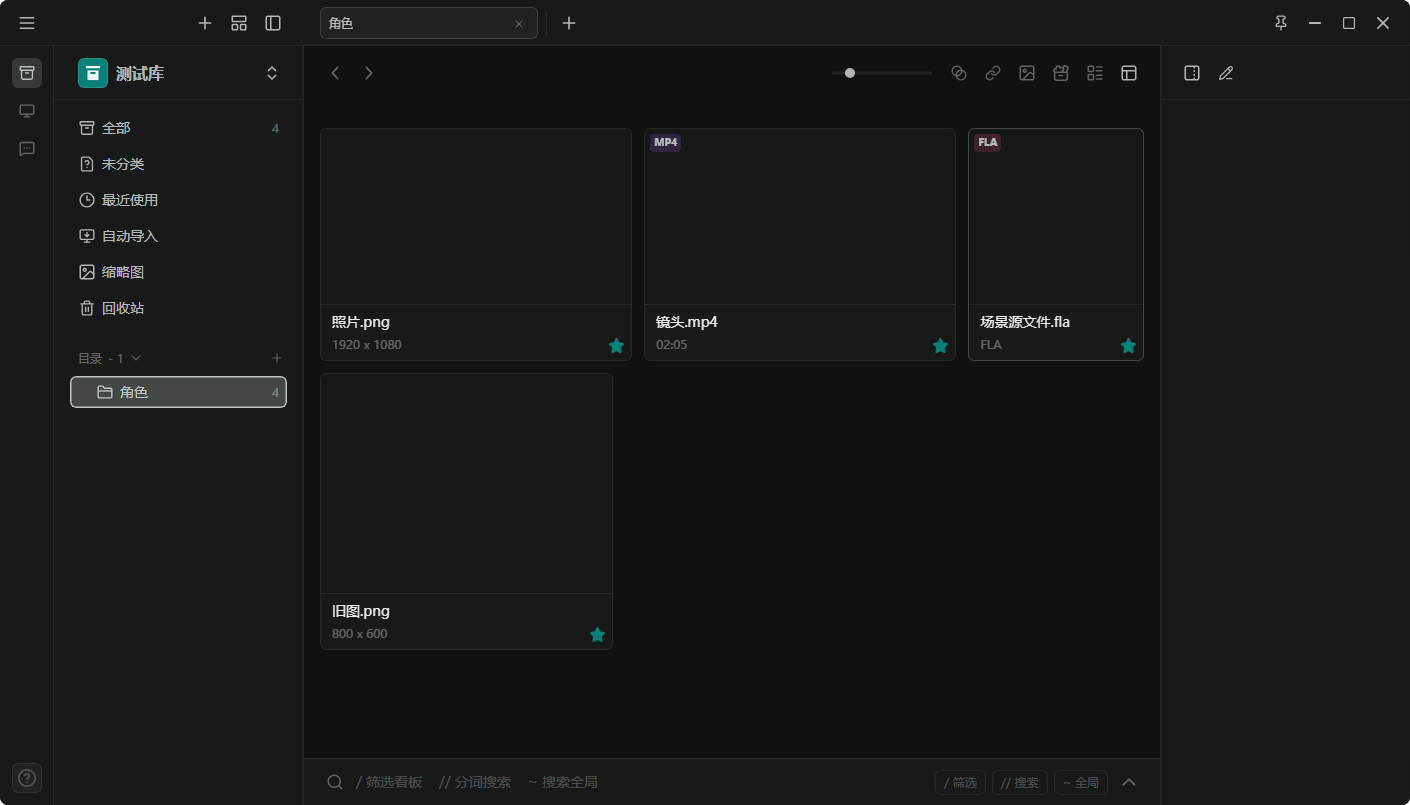
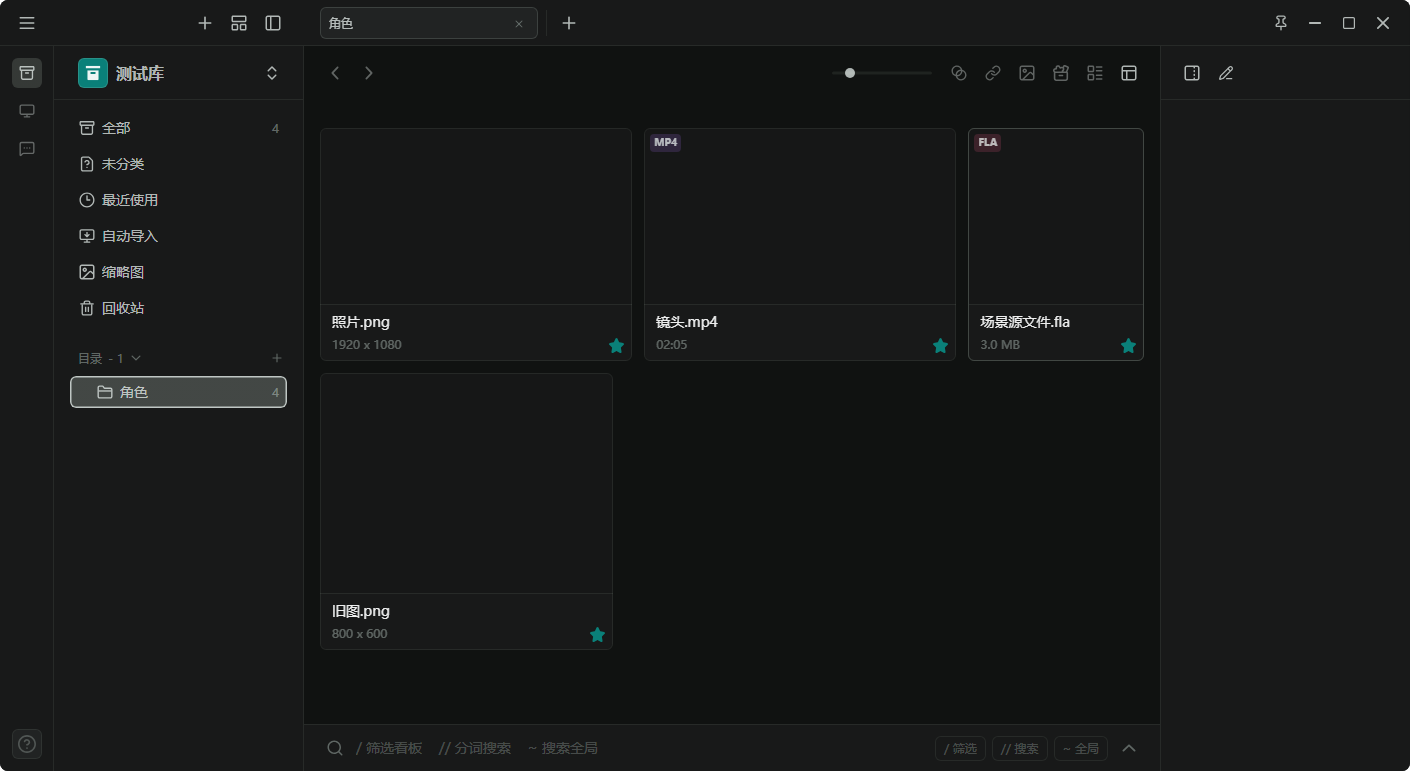
fix(1.4): 简介空值兜底扩为全档——尺寸档无尺寸资源(fla等)也回退文件大小，废「回退格式角标文案」（角标/名称/简介三处重复同一格式词信息浪费，用户定）；探针S2e改口径重验16项全PASS

diff --git a/src/components/AssetCard.vue b/src/components/AssetCard.vue
@@ -195,15 +195,18 @@ const badge = computed(() => {
 const badgeColor = computed(() => formatBadgeColor(props.asset.ext, isSeq.value, isAnim.value));
 const displayName = computed(() => assetDisplayName(props.asset, ui.showExt));
 // 简介行内容按查看方式「显示简介」下拉分流（2026-08-19 接入；标签档占位禁用，待后端数据通道）：
-// 尺寸 = 音视频时长（mm:ss，5.1）/ 动图与其他按 w×h / 无尺寸回退格式角标文案；
-// 空值兜底（2026-08-19 用户定）：档内无数据（存量创建日期 null）回退文件大小——文件大小恒有
+// 尺寸 = 音视频时长（mm:ss，5.1）/ 动图与其他按 w×h；
+// 空值兜底（2026-08-19 用户定）：档内无数据一律回退文件大小（恒有）——存量创建日期 null、
+// 尺寸档无尺寸资源（fla 等；旧"回退格式角标文案"废除：角标/名称/简介三处重复同一格式词，信息浪费）
 const meta = computed(() => {
   if (ui.briefMode === "fileSize") return formatSize(props.asset.size);
   if (ui.briefMode === "createdAt")
     return props.asset.createdAt ? formatDetailDate(props.asset.createdAt) : formatSize(props.asset.size);
   if (ui.briefMode === "modifiedAt") return formatDetailDate(props.asset.modifiedAt);
   if (props.asset.duration != null && !isAnim.value) return formatDuration(props.asset.duration);
-  return props.asset.w != null && props.asset.h != null ? `${props.asset.w} x ${props.asset.h}` : badge.value;
+  return props.asset.w != null && props.asset.h != null
+    ? `${props.asset.w} x ${props.asset.h}`
+    : formatSize(props.asset.size);
 });
 </script>
 

diff --git a/tools/cdp-brief-probe.py b/tools/cdp-brief-probe.py
@@ -1,6 +1,7 @@
 # CDP 探针：3.5 二轮 · 显示简介接入实证（2026-08-19）
 #   S1 菜单结构：显示简介 picker = 尺寸/文件大小/创建日期/修改日期/标签 5 项，无「无显示」，标签 disabled
-#   S2 简介开（默认）：卡高 = thumb + 57；.meta 可见；图片卡 "1920 x 1080"；视频卡 "02:05"；无尺寸回退角标
+#   S2 简介开（默认）：卡高 = thumb + 57；.meta 可见；图片卡 "1920 x 1080"；视频卡 "02:05"；
+#      无尺寸卡回退文件大小（2026-08-19 用户定：全档空值兜底统一回退 formatSize，旧角标文案回退废除）
 #   S3 简介关：卡高减恰好 21；.meta 隐藏；.texts = 36；卡底与 .texts 底差 ≤ 1px；origin-badge 在名称行右侧
 #   S4 下拉分流：文件大小 "1.5 MB" / 创建日期 YYYY/MM/DD HH:mm（null 卡回退文件大小 "512 B"，
 #      2026-08-19 用户定：档内无数据回退文件大小，不显示 "—"）/ 修改日期 / 切回尺寸还原
@@ -31,7 +32,7 @@ SLEEP = 0.35
 
 # 桩：f1 角色（4 素材，全 origin=true，thumbPath null 显占位底色——不影响高度断言）。
 # AN-IMG 普通图（尺寸/大小/双时间非空）；AN-VID 视频 duration 125.4（→ 02:05）；
-# AN-FLA 无尺寸（w/h null + formatIcon → 简介回退角标 "FLA"）；
+# AN-FLA 无尺寸（w/h null + formatIcon → 尺寸档回退 formatSize(3145728) = "3.0 MB"）；
 # AN-OLD createdAt null（→ 创建日期档回退 formatSize(512) = "512 B"）。
 STUB = r"""
 const TREE = {
@@ -278,7 +279,7 @@ async def main():
             print("  meta:", m_img, "/", m_vid, "/", m_fla)
             check("S2c 图片卡 meta = 1920 x 1080", m_img == "1920 x 1080", repr(m_img))
             check("S2d 视频卡 meta = 02:05（duration 125.4）", m_vid == "02:05", repr(m_vid))
-            check("S2e 无尺寸卡回退角标 FLA", m_fla == "FLA", repr(m_fla))
+            check("S2e 无尺寸卡回退文件大小 3.0 MB", m_fla == "3.0 MB", repr(m_fla))
 
             # 简介开截图（关菜单后拍）
             await key("Escape", "Escape", 27)

diff --git a/docs/04_开发日志/2026-08-19.md b/docs/04_开发日志/2026-08-19.md
@@ -1,6 +1,6 @@
 # 2026-08-19
 
-- **显示简介接入 · 查看方式（feat/new-ui，用户实机报"关闭简介后一坨黑"）**：根因 = 简介行只 `v-show` 藏文字，布局层恒按简介区 57（CARD_CAPTION_H）预留、缩略图按 57 倒扣——行藏后卡片底部空 21px 露背景。**修法**：`layouts.ts` 新增 `CARD_CAPTION_COMPACT_H = 36`（padding 8+8 + 名称行 20）；useGridLayout 简介区高度 = `showBrief ? 57 : 36` 且 watch 开关重排；AssetCard 缩略图高联动。**关 = 隐藏简介行并缩短卡片**（用户定"隐藏容器，视图更紧凑"）；原始文件徽章为整卡 absolute 定位不随简介隐藏，自动落名称行右侧（用户疑点，查实现状天然即此，零改动）。**下拉四档接入**（原仅尺寸档真接，切档无反应）：文件大小 = formatSize / 创建·修改日期 = formatDetailDate（YYYY/MM/DD HH:mm）；**空值兜底（用户定）= 档内无数据（存量创建日期 null）回退文件大小**（文件大小恒有）；标签档占位禁用（PlacementView 无 tags，记 09 待办随 3.2 二轮评估带出）；**「无显示」档删除**（用户定：与开关语义重复）+ 旧配置 briefMode "none" 启动迁移回尺寸档（ui.ts loadSettings）。列表模式固定行高不参与。**验证**：typecheck / build 全绿；CDP 探针 tools/cdp-brief-probe.py（新）**16 项全 PASS**（菜单 5 项 + 标签禁用 / 卡高 233 = thumb 176+57 / 关后 233→212 恰减 21、卡底与简介区底差 0px、徽章垂直中心落名称行带 / 四档分流 + 创建日期 null 回退 "512 B"）+ 三截图（brief-on / brief-off / brief-created-at）。文档同步：PRD 04-02 显示简介条文 / 09 待办标签档 / 进度。
+- **显示简介接入 · 查看方式（feat/new-ui，用户实机报"关闭简介后一坨黑"）**：根因 = 简介行只 `v-show` 藏文字，布局层恒按简介区 57（CARD_CAPTION_H）预留、缩略图按 57 倒扣——行藏后卡片底部空 21px 露背景。**修法**：`layouts.ts` 新增 `CARD_CAPTION_COMPACT_H = 36`（padding 8+8 + 名称行 20）；useGridLayout 简介区高度 = `showBrief ? 57 : 36` 且 watch 开关重排；AssetCard 缩略图高联动。**关 = 隐藏简介行并缩短卡片**（用户定"隐藏容器，视图更紧凑"）；原始文件徽章为整卡 absolute 定位不随简介隐藏，自动落名称行右侧（用户疑点，查实现状天然即此，零改动）。**下拉四档接入**（原仅尺寸档真接，切档无反应）：文件大小 = formatSize / 创建·修改日期 = formatDetailDate（YYYY/MM/DD HH:mm）；**空值兜底（用户定）= 档内无数据一律回退文件大小**（文件大小恒有——存量创建日期 null、尺寸档无尺寸 fla 等；旧"无尺寸回退格式角标文案"废除：角标/名称/简介三处重复同一格式词，信息浪费）；标签档占位禁用（PlacementView 无 tags，记 09 待办随 3.2 二轮评估带出）；**「无显示」档删除**（用户定：与开关语义重复）+ 旧配置 briefMode "none" 启动迁移回尺寸档（ui.ts loadSettings）。列表模式固定行高不参与。**验证**：typecheck / build 全绿；CDP 探针 tools/cdp-brief-probe.py（新）**16 项全 PASS**（菜单 5 项 + 标签禁用 / 卡高 233 = thumb 176+57 / 关后 233→212 恰减 21、卡底与简介区底差 0px、徽章垂直中心落名称行带 / 四档分流 + 创建日期 null 回退 "512 B"）+ 三截图（brief-on / brief-off / brief-created-at）。文档同步：PRD 04-02 显示简介条文 / 09 待办标签档 / 进度。
 
 - **3.6 二轮 · 搜索框 tag 化重构（feat/new-ui，用户两条走查定案）**：① **kbd 徽章组改提示态**——未聚焦且无内容时显示（/ 筛选 // 搜索 ~ 全局），聚焦或有内容隐藏、输入区贯穿（类 ctrl+f 提示口径）；② **范围 chip 按钮废除、指令 tag 化**（用户：没想过加按钮）——输入区 = chips + 内联草稿（交互同 TermChipsInput：空格/回车提交、IME 守卫、空草稿 Backspace 删尾、× 删、失焦提交草稿；**草稿未提交也即时参与搜索**）；`~`→「~ 全局搜索」（tag 即范围）、`//`→「// 搜索」（显式分词）、`/`→「/ 筛选」占位 tag（不参与搜索，二轮点亮）；**连写剥落**（`~人物` 空格 → 全局 tag + 人物 chip，`~//` 可叠加）；chips 换行搜索栏向上撑高（min-height 46）。search store 改 chips+draft 模型（PanelSearch.global/toggleGlobal/chipLabel 废除，effectiveGlobal 改读 `~` chip/草稿前缀）；`/vs //` 语义维持壳口径（用户笔误后确认）。探针适配：set_input 先 Esc 清 chips、新增 append_input / chips_texts / 按键辅助；新场景 S1b（空格提交 chip）/ S7c-f（剥落 + Backspace 删 chip）/ S15（/ 占位 tag）/ S16（徽章显隐三态）；S8 排查链路（store 埋点 + 桩直调）实证为 headless 防抖+渲染延迟（2s 等待后正常，产品无 bug），探针等待提至 1s。探针 40 项全 PASS；typecheck / build 全绿。PRD 03-01/02、00 总览 3.1、速查表 §3 同步。
 

diff --git a/docs/05_项目进度/00_当前状态.md b/docs/05_项目进度/00_当前状态.md
@@ -2,7 +2,7 @@
 
 # 当前状态
 
-- **显示简介已接入（2026-08-19，feat/new-ui，用户实机报"关闭简介后一坨黑"）**：查看方式显示简介行点亮——**关 = 隐藏简介行并缩短卡片**（简介区 57→36，`CARD_CAPTION_COMPACT_H`，useGridLayout 随开关重排；原只 v-show 藏字、布局恒按 57 预留致底部空 21px 露背景）；原始文件徽章整卡 absolute 定位不随简介隐藏、自动落名称行右侧（用户疑点，查实现状天然即此）。**下拉四档真接**（尺寸 / 文件大小 / 创建·修改日期，原切档无反应）；**空值兜底 = 文件大小**（用户定：档内无数据回退，文件大小恒有——存量创建日期 null 即此列）；标签档占位禁用（PlacementView 无 tags，09 待办随 3.2 二轮评估带出）；「无显示」档删除（与开关语义重复，用户定）+ 旧配置 none 启动迁移回尺寸档。列表模式固定行高不参与。typecheck / build 全绿；CDP 探针 cdp-brief-probe.py（新）**16 项全 PASS** + 三截图（brief-on / brief-off / brief-created-at）。PRD 04-02 显示简介条文 / 09 待办同步。**下一步：`/` 筛选（3.6 三轮）/ 快捷搜索框（托盘 + 全局热键，按用户排期）/ 3.2 二轮 数据填写（31/32 稿、徽标编辑）**。
+- **显示简介已接入（2026-08-19，feat/new-ui，用户实机报"关闭简介后一坨黑"）**：查看方式显示简介行点亮——**关 = 隐藏简介行并缩短卡片**（简介区 57→36，`CARD_CAPTION_COMPACT_H`，useGridLayout 随开关重排；原只 v-show 藏字、布局恒按 57 预留致底部空 21px 露背景）；原始文件徽章整卡 absolute 定位不随简介隐藏、自动落名称行右侧（用户疑点，查实现状天然即此）。**下拉四档真接**（尺寸 / 文件大小 / 创建·修改日期，原切档无反应）；**空值兜底 = 文件大小**（用户定：档内无数据一律回退，文件大小恒有——存量创建日期 null、尺寸档无尺寸 fla 等；旧角标文案回退废除）；标签档占位禁用（PlacementView 无 tags，09 待办随 3.2 二轮评估带出）；「无显示」档删除（与开关语义重复，用户定）+ 旧配置 none 启动迁移回尺寸档。列表模式固定行高不参与。typecheck / build 全绿；CDP 探针 cdp-brief-probe.py（新）**16 项全 PASS** + 三截图（brief-on / brief-off / brief-created-at）。PRD 04-02 显示简介条文 / 09 待办同步。**下一步：`/` 筛选（3.6 三轮）/ 快捷搜索框（托盘 + 全局热键，按用户排期）/ 3.2 二轮 数据填写（31/32 稿、徽标编辑）**。
 
 - **3.6 一轮 · 分词搜索已落地（2026-08-19，feat/new-ui，口径用户逐题定案；同日二轮 tag 化重构）**：主窗口搜索框点亮——**tag 化输入**（chips + 草稿即时搜：`~`→「~ 全局搜索」tag 即范围（无按钮）、`//`→「// 搜索」、`/`→「/ 筛选」占位待三轮；连写剥落 `~人物`→两 chip；空格/回车提交、Backspace 删尾、× 删、失焦提交、IME 守卫）；kbd 徽章组 = 未聚焦且无内容时提示，聚焦/有内容隐藏输入区贯穿；Ctrl+F 聚焦。**结果替换素材区**（清空恢复）：命中素材 + 命中档案（ArchiveCard）、文件夹区块隐藏、排序生效分组平铺；当前目录跟随递归开关；快速访问 = 当前视图即范围（回收站里搜回收站）；全局 = 全库不含回收站；空态中央「无搜索结果」。**后端** `services/search.rs` + `commands/search.rs`：命中范围 = 素材（资产名 / 各 Placement 显示名 / 扩展名 / 链接 URL decode（手写 percent_decode）/ 路径链（区块 / 各级文件夹 / 档案名，64 层防环））+ 档案全字段（名 / 徽标 / 属性 / 描述 / 链接）；回收站范围读快照 placements，命中键 folderId 恒 "recycle"；档案命中仅文件夹视图出档案区（非全局仅直属 = stripArchivesFor 口径，全局 = 全库）。**前端** `stores/search.ts`（新，per-panel chips+draft 模型，防抖 150ms + seq 竞态）、ContentArea 命中键过滤（placementsFor 排序带入）、AssetGrid searching props（分组平铺 / FolderStrip 隐藏 / ArchiveStrip nodes 数据源 / 空态）、useGlobalKeys Ctrl+F。**复验修复一轮（同日，用户实机报"全局没生效"）**：全局搜索前端过滤基底恒取当前视口 → 空文件夹基底滤光全库命中——ContentArea 基底分流（全局 = quick:all 全库 / 当前 = 本视口），探针补 S14 回归钉；探针 set_input 改轮询等待（headless 防抖延迟漂移）。cargo test 344（9 新）/ typecheck / build 全绿；CDP 探针 cdp-search-probe.py **40 项全 PASS** + 截图。PRD 03-01/02、00 总览、07 接口、速查表 §3 同步。**下一步：`/` 筛选（3.6 三轮）/ 快捷搜索框（托盘 + 全局热键，按用户排期）/ 3.2 二轮 数据填写（31/32 稿、徽标编辑）**。
 

diff --git a/docs/03_项目-PRD/04_文件预览.md b/docs/03_项目-PRD/04_文件预览.md
@@ -36,7 +36,7 @@ link: "[[00_功能总览]]"
 - 网格式：固定正方形。
 - 列表式
 
-- **显示简介（2026-08-19 接入，28 稿查看方式菜单行）：** 下拉选内容 + 开关两个独立设置（应用级 settings.ui `briefMode` / `showBrief`）。**档 4 项**：尺寸（音视频 = 时长 mm:ss、动图与其他 = w×h、无尺寸 = 格式角标文案）/ 文件大小 / 创建日期 / 修改日期（档内无数据回退文件大小——文件大小恒有，2026-08-19 用户定；存量创建日期为 null 即属此列）；**标签档占位禁用**（卡片数据无 tags，待后端数据通道随 3.2 二轮补）；**「无显示」档废除**（与开关语义重复，2026-08-19 用户定），旧配置残留 none 启动迁移回尺寸档。**关 = 隐藏简介行并缩短卡片**（简介区 57→36 = padding 8+8 + 名称行 20），网格随开关重排更紧凑；原始文件徽章为整卡绝对定位、不随简介隐藏，卡片缩短后自动落在名称行右侧。列表模式固定列行高，不参与简介开关。
+- **显示简介（2026-08-19 接入，28 稿查看方式菜单行）：** 下拉选内容 + 开关两个独立设置（应用级 settings.ui `briefMode` / `showBrief`）。**档 4 项**：尺寸（音视频 = 时长 mm:ss、动图与其他 = w×h）/ 文件大小 / 创建日期 / 修改日期；**档内无数据一律回退文件大小**（文件大小恒有，2026-08-19 用户定——存量创建日期 null、尺寸档无尺寸资源 fla 等即属此列；旧"无尺寸 = 格式角标文案"废除：角标 / 名称 / 简介三处重复同一格式词，信息浪费）；**标签档占位禁用**（卡片数据无 tags，待后端数据通道随 3.2 二轮补）；**「无显示」档废除**（与开关语义重复，2026-08-19 用户定），旧配置残留 none 启动迁移回尺寸档。**关 = 隐藏简介行并缩短卡片**（简介区 57→36 = padding 8+8 + 名称行 20），网格随开关重排更紧凑；原始文件徽章为整卡绝对定位、不随简介隐藏，卡片缩短后自动落在名称行右侧。列表模式固定列行高，不参与简介开关。
 
 ## 03. 缩略图与全文件支持
 
